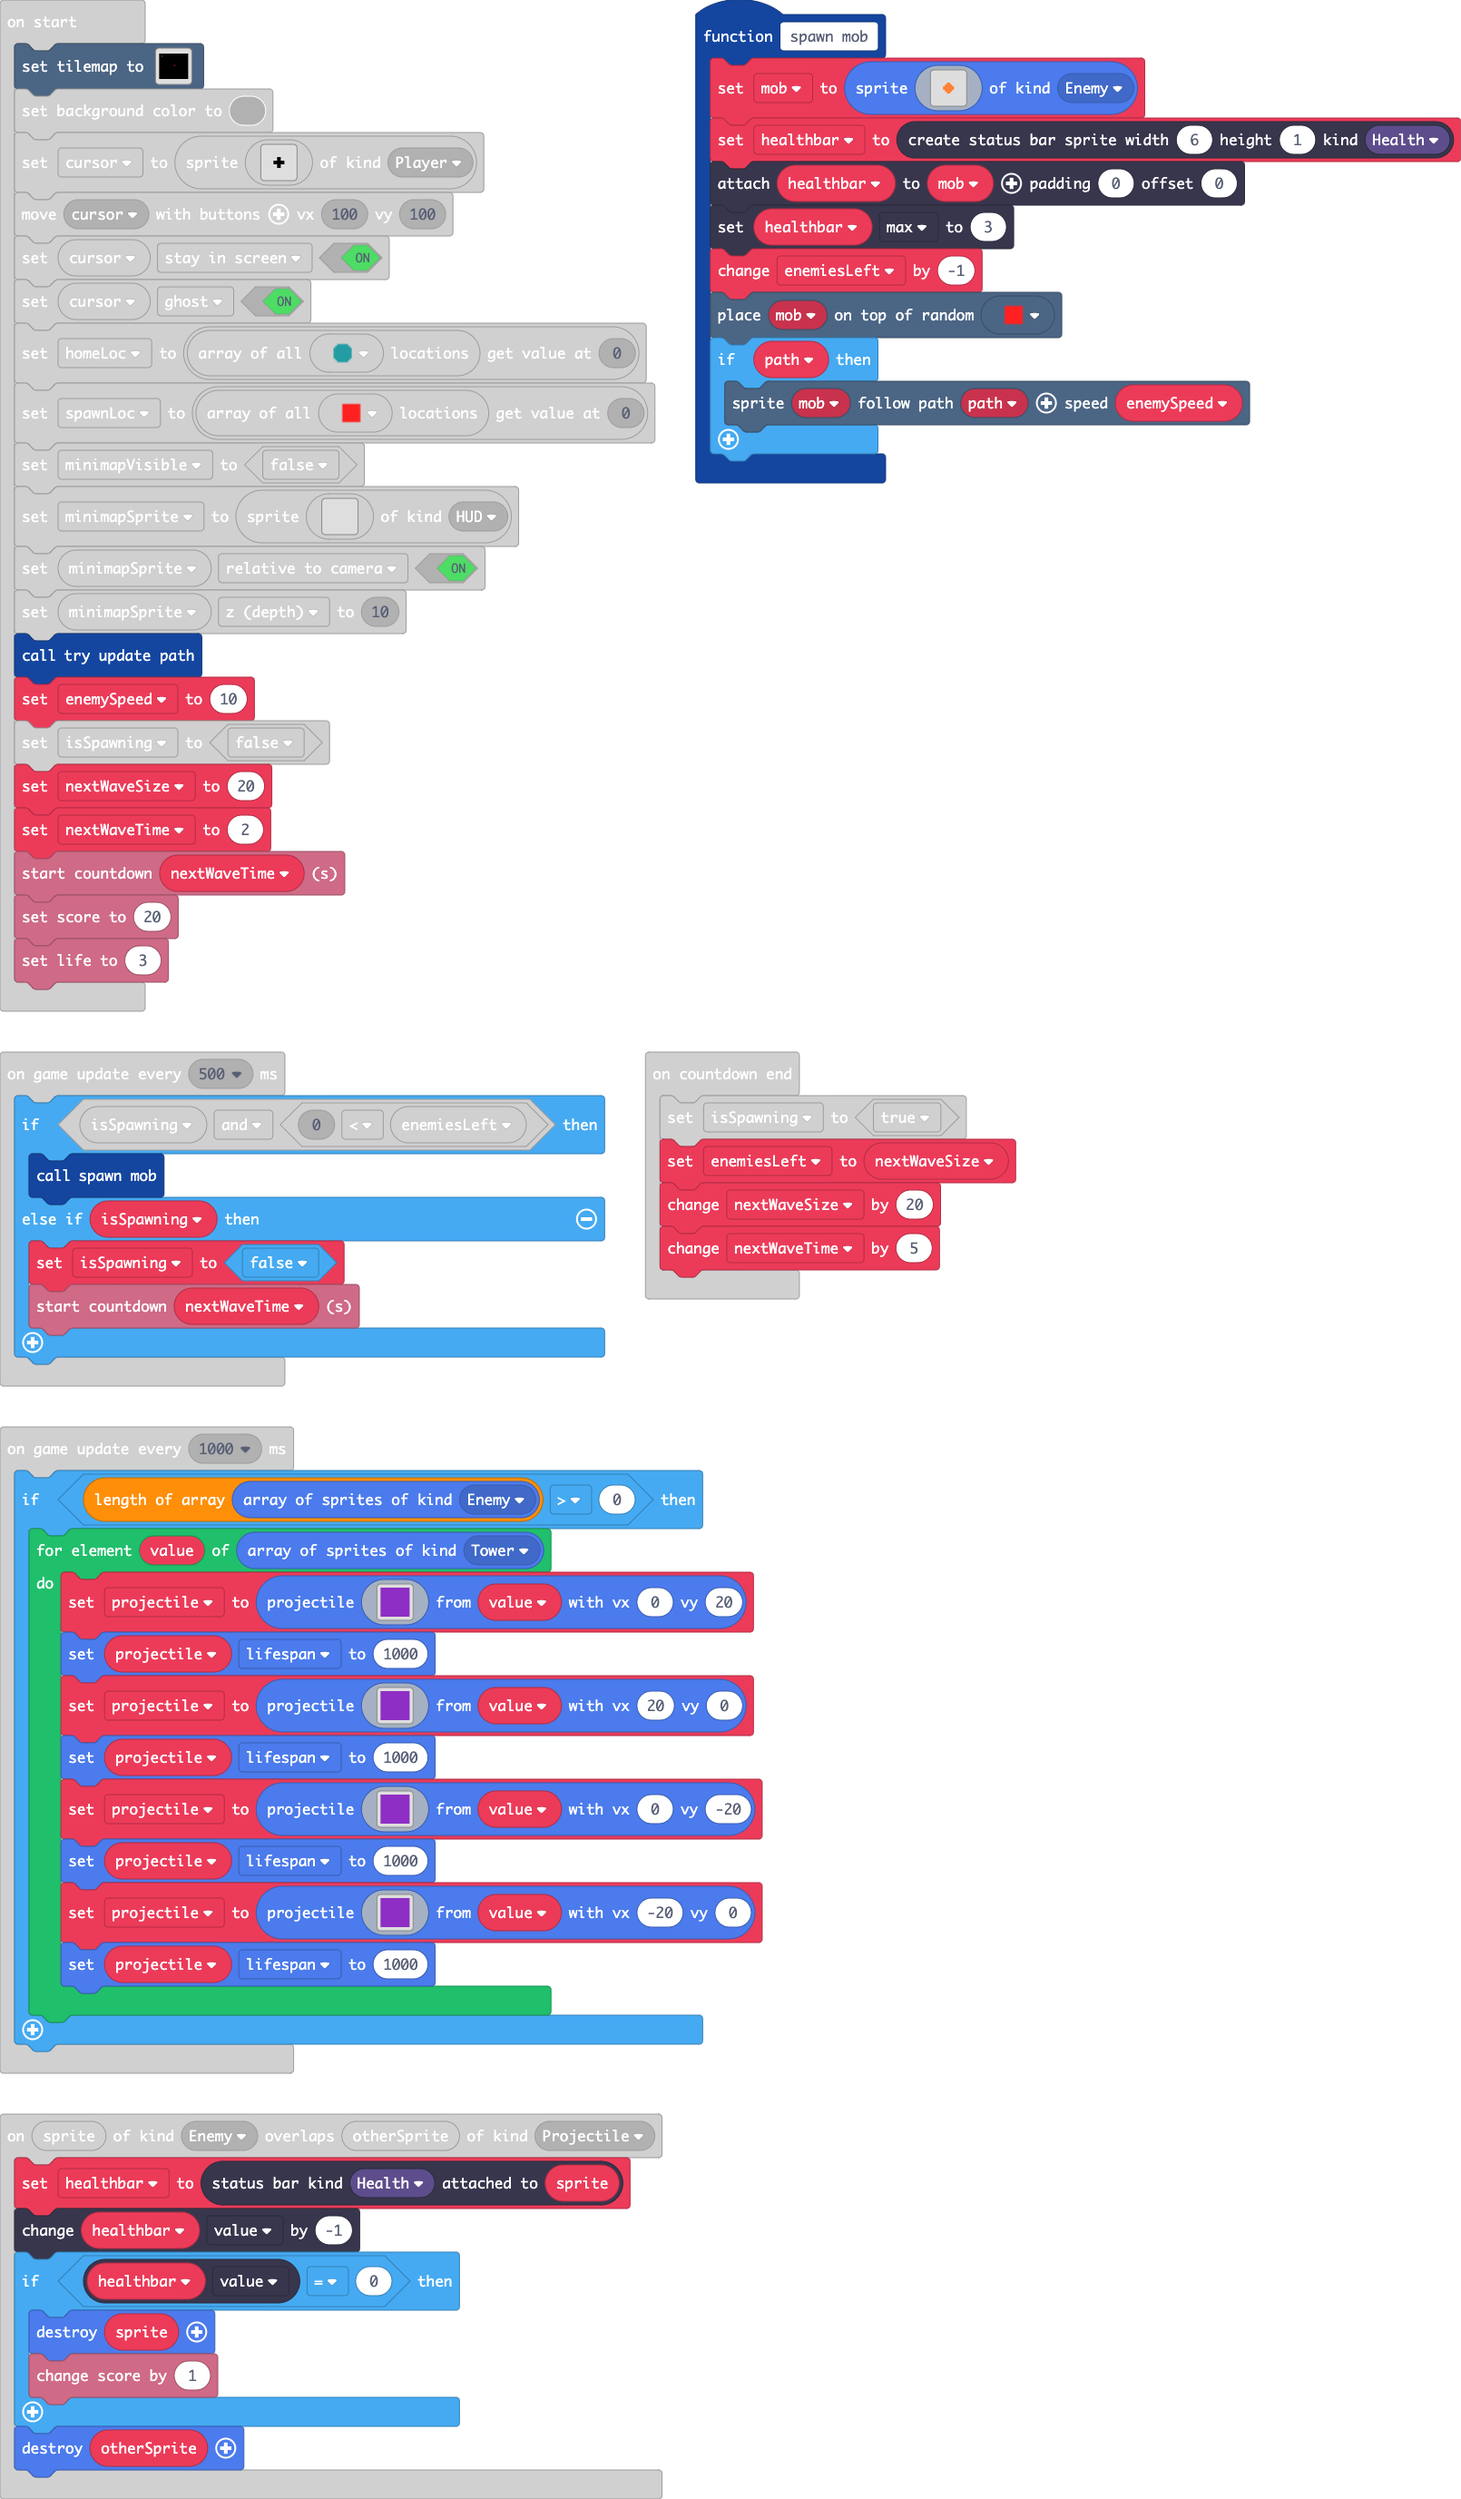
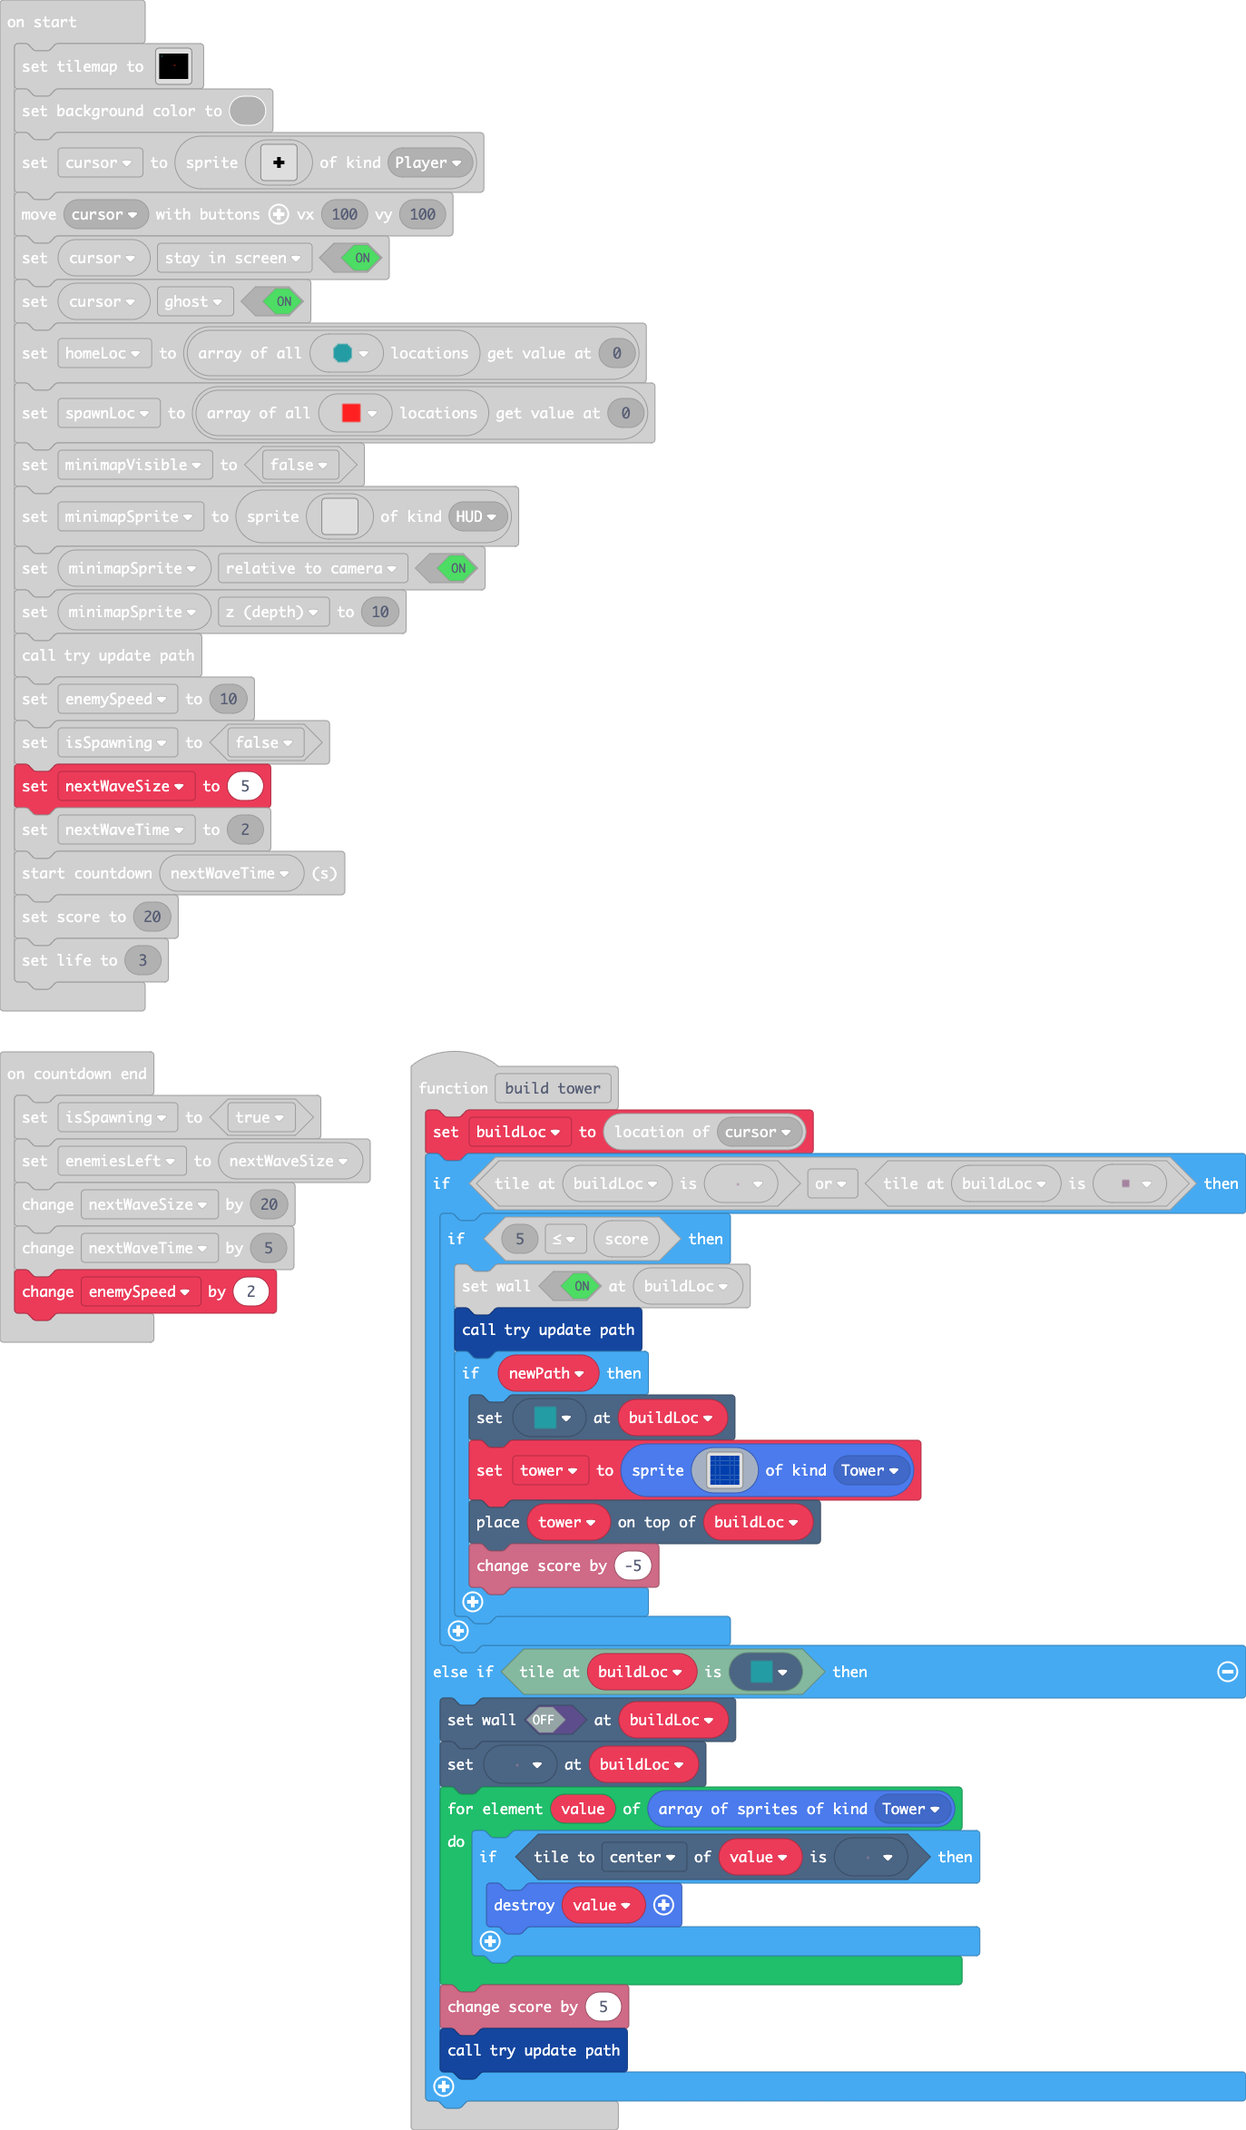
can remove towers; enemies speed up

diff --git a/main.ts b/main.ts
@@ -243,15 +243,16 @@ info.onCountdownEnd(function () {
     enemiesLeft = nextWaveSize
     nextWaveSize += 20
     nextWaveTime += 5
+    enemySpeed += 2
 })
 scene.onOverlapTile(SpriteKind.Enemy, myTiles.tile2, function (sprite, location) {
     sprite.destroy()
     info.changeLifeBy(-1)
 })
 function build_tower () {
-    if (5 <= info.score()) {
-        buildLoc = tilemap.locationOfSprite(cursor)
-        if (tilemap.tileIs(buildLoc, myTiles.tile5) || tilemap.tileIs(buildLoc, myTiles.tile7)) {
+    buildLoc = tilemap.locationOfSprite(cursor)
+    if (tilemap.tileIs(buildLoc, myTiles.tile5) || tilemap.tileIs(buildLoc, myTiles.tile7)) {
+        if (5 <= info.score()) {
             tiles.setWallAt(buildLoc, true)
             try_update_path()
             if (newPath) {
@@ -268,6 +269,16 @@ function build_tower () {
                 info.changeScoreBy(-5)
             }
         }
+    } else if (tilemap.tileIs(buildLoc, myTiles.tile9)) {
+        tiles.setWallAt(buildLoc, false)
+        tiles.setTileAt(buildLoc, myTiles.tile5)
+        for (let value of sprites.allOfKind(SpriteKind.Tower)) {
+            if (value.tileKindAt(TileDirection.Center, myTiles.tile5)) {
+                value.destroy()
+            }
+        }
+        info.changeScoreBy(5)
+        try_update_path()
     }
 }
 function try_update_path () {
@@ -376,7 +387,7 @@ minimapSprite.z = 10
 try_update_path()
 enemySpeed = 10
 isSpawning = false
-nextWaveSize = 20
+nextWaveSize = 5
 let nextWaveTime = 2
 info.startCountdown(nextWaveTime)
 info.setScore(20)
